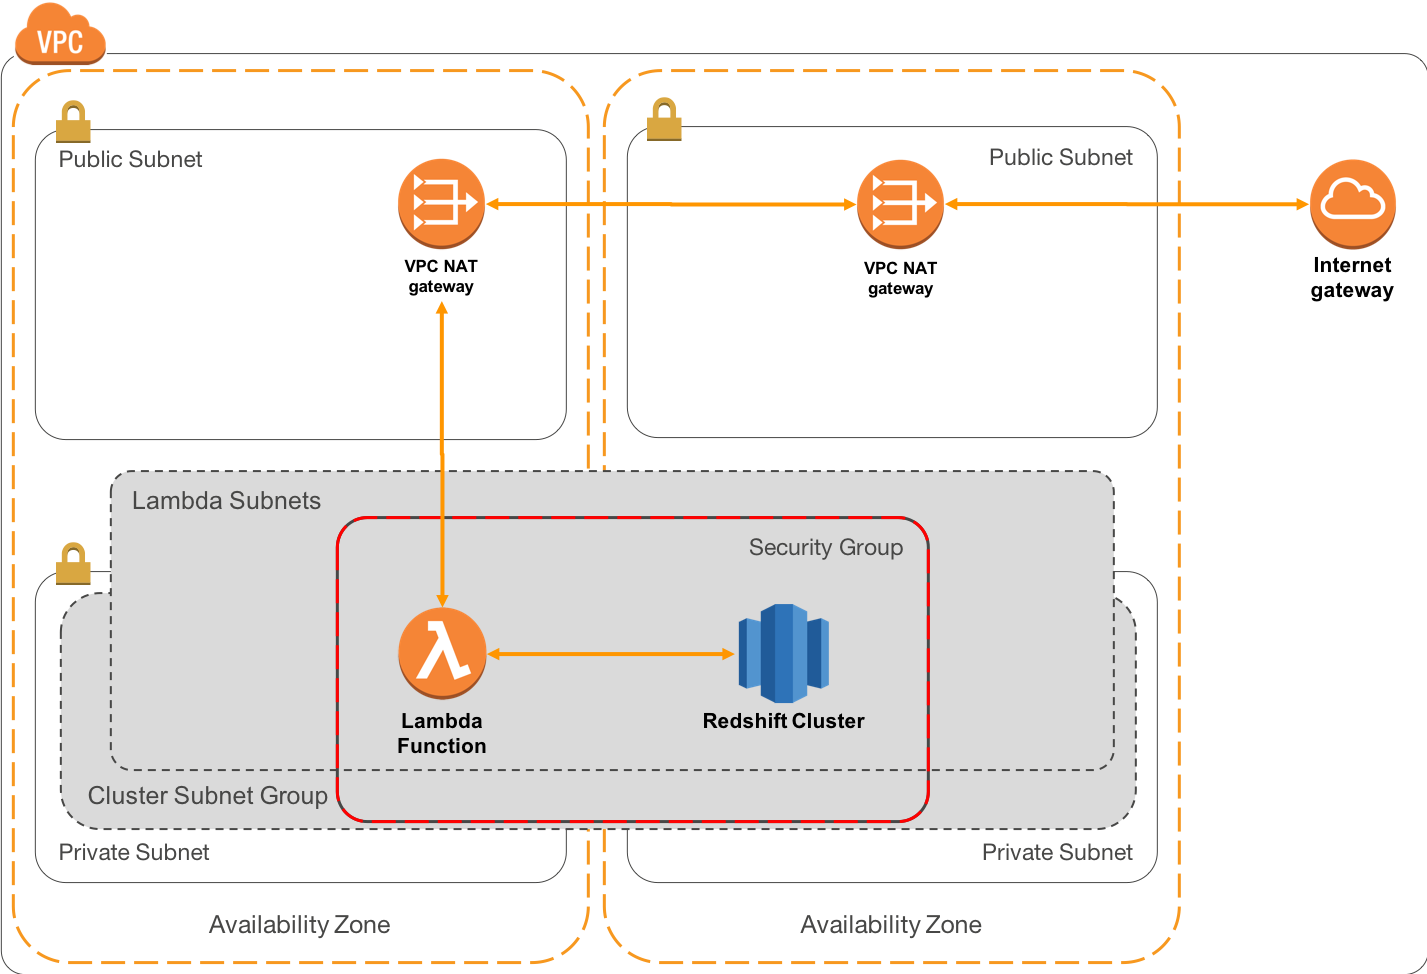
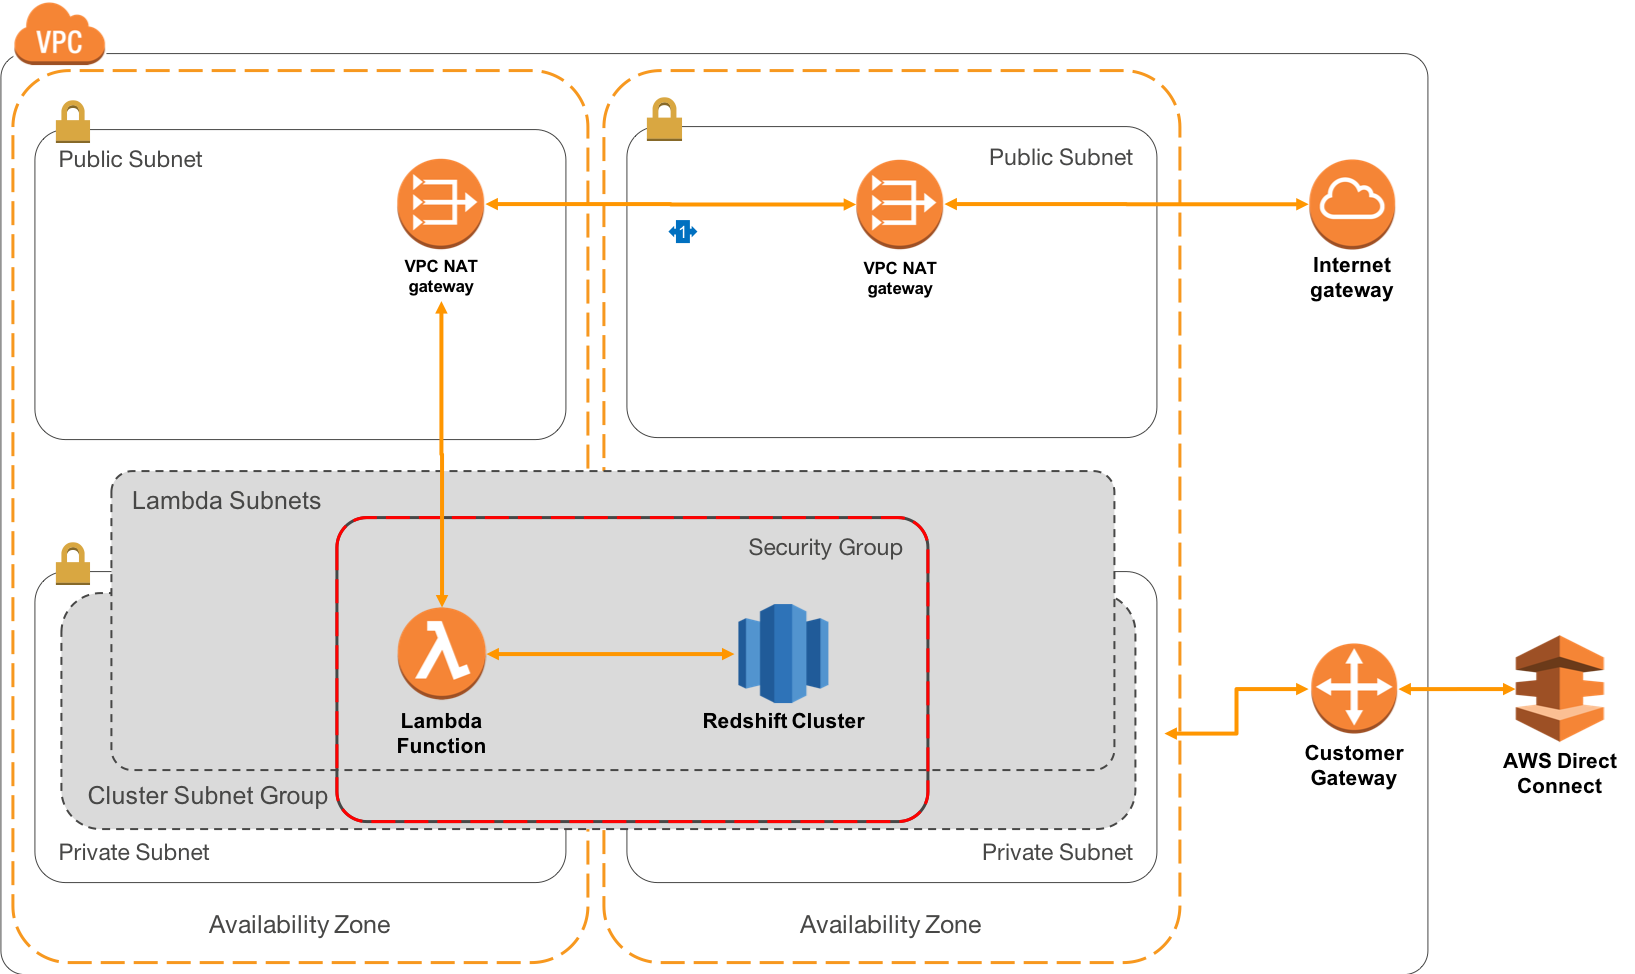
Documentation updates

diff --git a/lambda-connections/README.md b/lambda-connections/README.md
@@ -1,9 +1,23 @@
 # Lambda Connections
 
-## Connecting with Lambda Functions running inside of VPC
+## Overview
+
+In this architecture, your AWS Lambda functions will connect only to resources that sit within public subnets of your VPC.
 
 ![Lambda Connections](private-connectivity.png)
 
-## Connecting with Lambda Functions running outside of VPC
+## Walkthrough of the Architecture
+
+1. Amazon Redshift is run within Private Subnets as outlined in our [private connectivity pattern](https://github.com/aws-samples/aws-dbs-refarch-redshift/tree/master/private-routing).
+2. AWS Lambda is configured to run in the same set of Subnets as the Redshift Cluster Subnet Group, which means when your Lambda function starts, it will have an ENI attached that egresses from your private Subnets. By default, private Subnets can route to each other and so connections to Redshift are simplified.
+3. Your AWS Lambda functions should be configured to use the same VPC Security Group as the cluster, and this security group is configured to allow connections from itself on the Redshift port only.
+
+In this architecture, your Lambda functions will have no connectivity possible outside of the VPC, and so will have to solve the problem of secure storage of the database password. It is not recommended that you put database passwords into [Encrypted Lambda Environment Variables](https://docs.aws.amazon.com/lambda/latest/dg/env_variables.html#env_encrypt), as these will be visible to anyone who can edit the function. It is for this reason that most customers opt to give Lambda functions the ability to route to AWS services:
+
+## Connecting Lambda Functions to services outside of VPC
+
+As with the previous architecture, your Redshift cluster runs in private Subnets and connections are routed back through a Customer Gateway and AWSDirect Connect.
 
 ![Lambda Connections](public-connectivity.png)
+
+1. However, we also add public subnets which contain [AWS VPC NAT Gateways](https://docs.aws.amazon.com/AmazonVPC/latest/UserGuide/vpc-nat-gateway.html). These sit within each AZ and allow outbound traffic to be routed via an Internet Gateway. This will allow for the storage of database passwords in the [AWS Systems Manager Parameter Store](https://aws.amazon.com/blogs/compute/sharing-secrets-with-aws-lambda-using-aws-systems-manager-parameter-store). For java functions, you can also consider using [Redshift IAM Single Sign On](http://docs.aws.amazon.com/redshift/latest/mgmt/generating-user-credentials.html).

diff --git a/spectrum-multicluster/README.md b/spectrum-multicluster/README.md
@@ -11,7 +11,7 @@
 1. In this architecture, your data is stored on Amazon S3 in an columnar compressed format such as [Orc or Parquet](https://docs.aws.amazon.com/redshift/latest/dg/c-spectrum-data-files.html). This data will be organised using a S3 prefix structure that enables easy navigation by business unit, as well as providing for simple security rules in S3. 
 2. This compressed data will be crawled by AWS Glue Crawlers and entered into the AWS Glue Data Catalog. This will include all the relevant file attributes to create a table, as well as [containing references to Hive Partitions based on S3 prefixes](https://docs.aws.amazon.com/glue/latest/dg/aws-glue-programming-etl-partitions.html).
 3. Create multiple Redshift Clusters, each sized for the capacity that you need to deliver to one set of end users. These clusters will typically be of heterogenous size and instance type, but can differ depending on use.
-4. [Create Redshift Spectrum External Schemas](https://docs.aws.amazon.com/redshift/latest/dg/c-spectrum-external-schemas.html) which allow each cluster to see the data in the Glue Data Catalog.
+4. [Create Redshift Spectrum External Schemas](https://docs.aws.amazon.com/redshift/latest/dg/c-spectrum-external-schemas.html) in each reporting cluster which allow access to data in S3 via Glue Data Catalog.
 5. If heterogenous cluster configurations are used, then it can also be useful to create a [Route53 Hosted Zone](https://docs.aws.amazon.com/Route53/latest/DeveloperGuide/CreatingHostedZone.html) which provides simple DNS names for each of the clusters. This can be used to expose each cluster to end users, as well as providing a single endpoint which is used to load balance across all clusters in the group.
 
 
